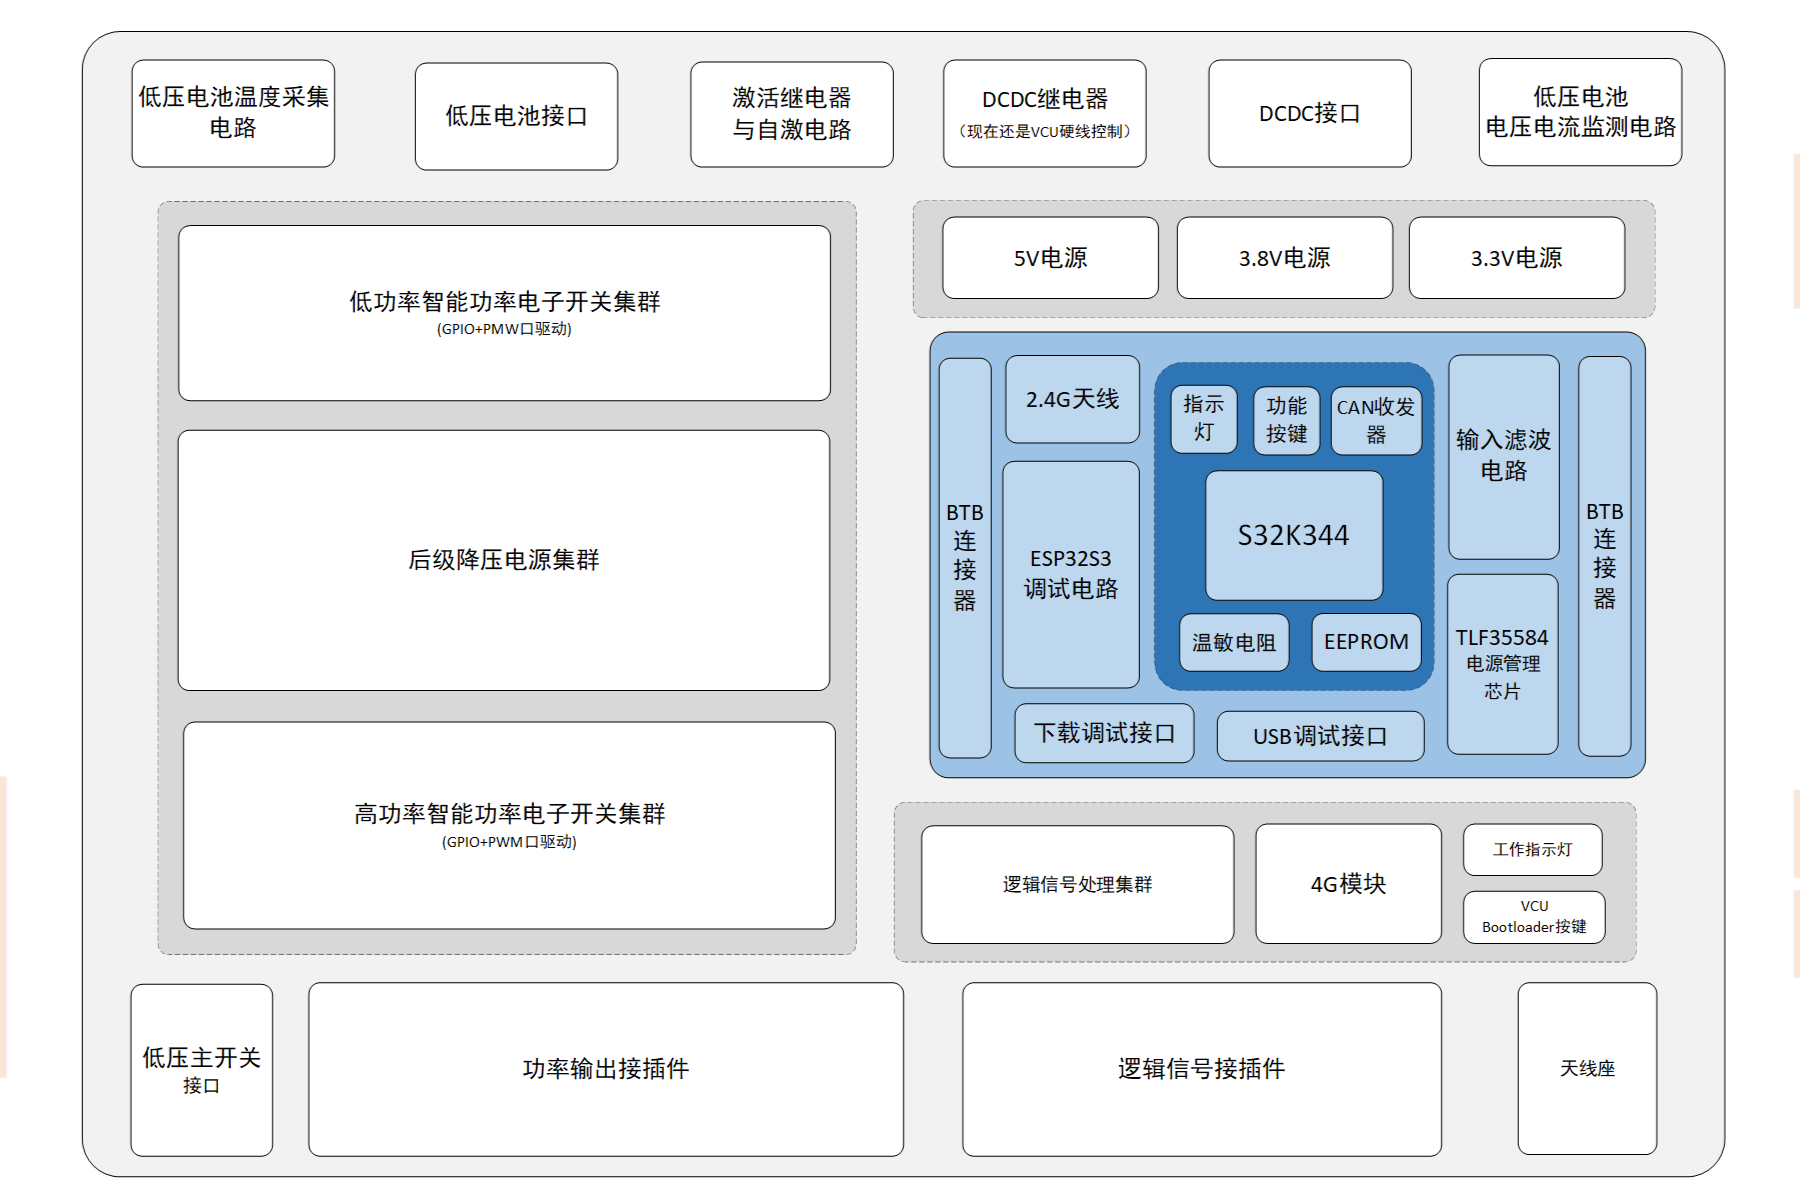
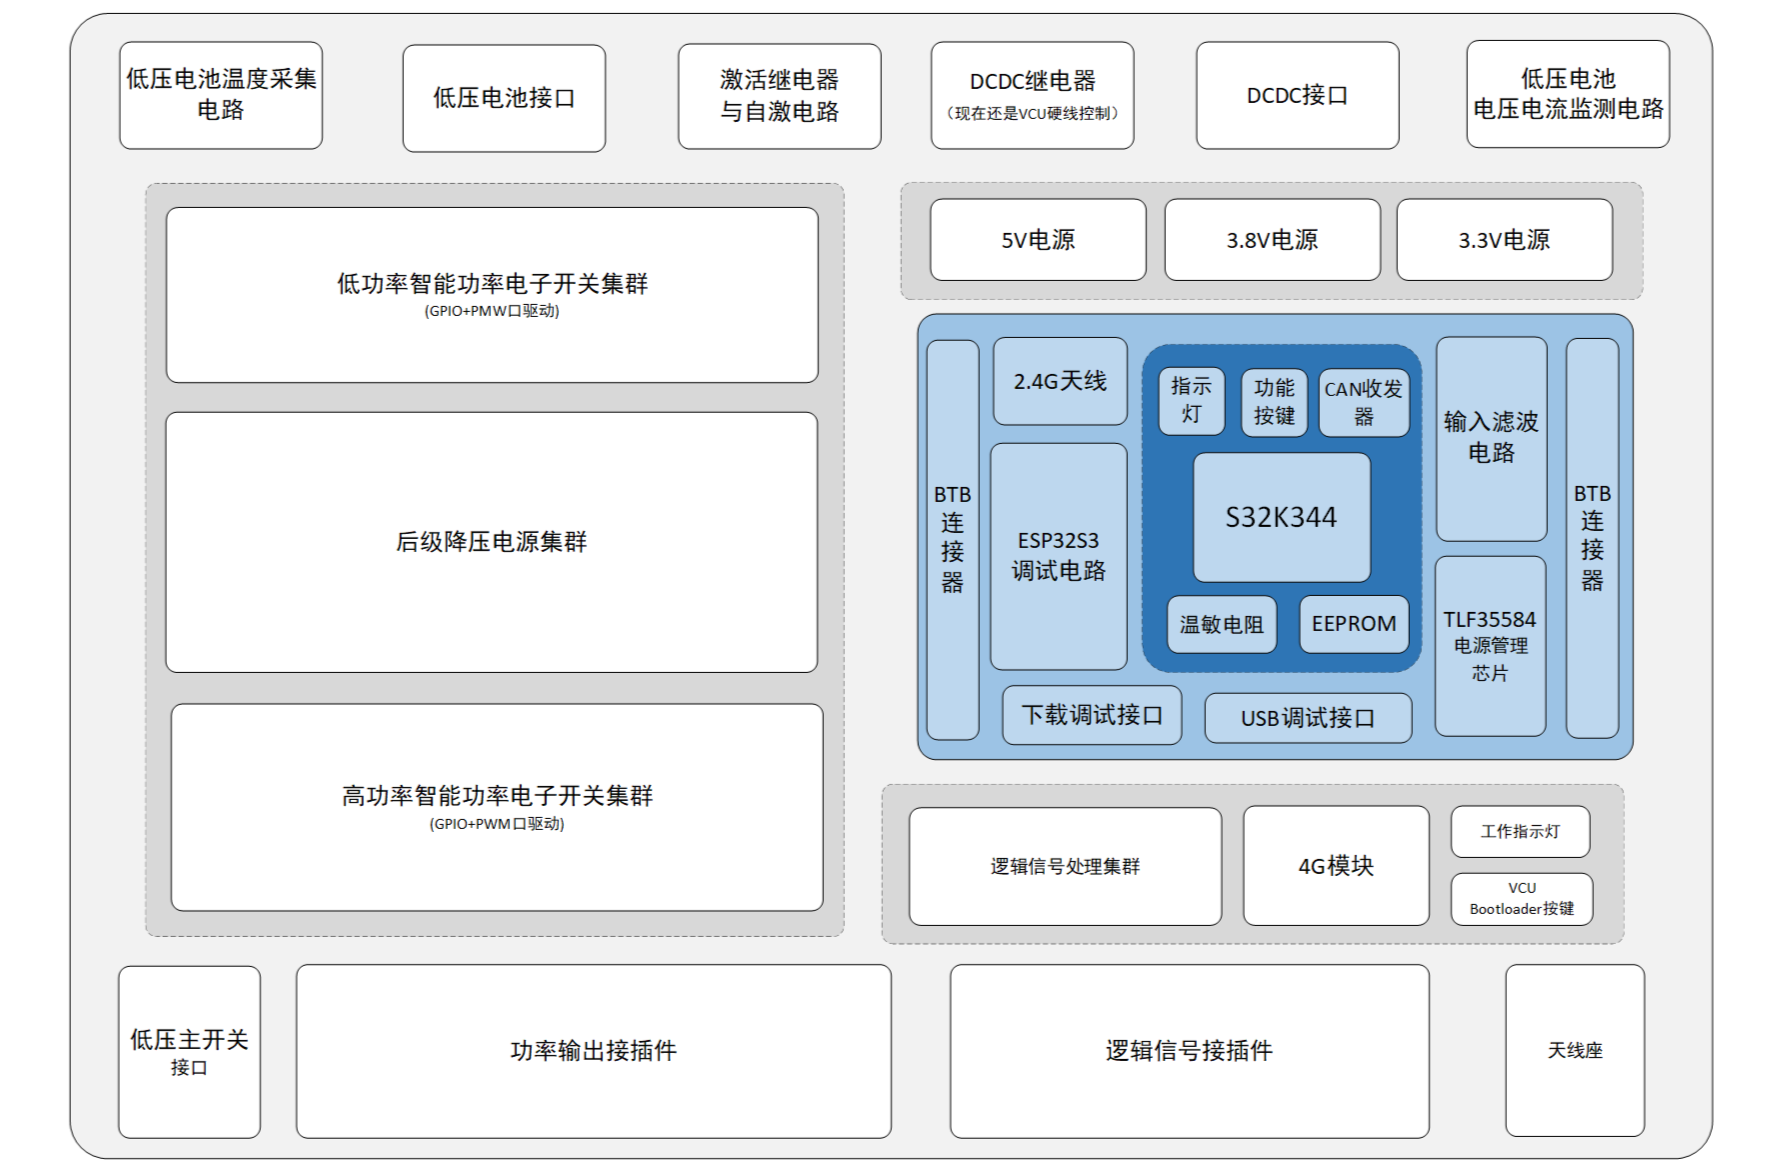
update readme

diff --git a/Firmware/AUTOSAR_MBD/RBCM_MBD/README.md b/Firmware/AUTOSAR_MBD/RBCM_MBD/README.md
@@ -27,7 +27,7 @@
 
 ## 子系统搭建
 
-1. ## MQTT通信子系统：
+### MQTT通信子系统：
 
 功能需求：
 与4G模块串口收发
@@ -62,7 +62,7 @@ AT+QMTSUB=0,1,"wute/car/test",2    //订阅topic
 另外在超时5s未收到触发信号时（串口迟迟未收到数据），从头开始发送
 
 
-2. ## HSD诊断子系统：
+### HSD诊断子系统：
 
 设计思路：既然是诊断，以原始数据为重心开展
 
@@ -73,7 +73,7 @@ AT+QMTSUB=0,1,"wute/car/test",2    //订阅topic
 片选，归属数据（各通道诊断数据存各缓存区）
 分析数据，报告错误（无输出、过流、电流不正常（超范围、不稳定）），采取保护（过流关断）
 
-3. ## 惯导解析子系统
+### 惯导解析子系统
 
 惯导数据格式：
 一帧有41个字节数据
@@ -91,3 +91,5 @@ AT+QMTSUB=0,1,"wute/car/test",2    //订阅topic
 每输入一帧41个数据，输出三个数组，每个数组分别储存各个方向（x y z）的角速度和加速度值（每个数组长度为8，数据类型uint8，前4位存储角速度值，后4位存储加速度值）
 输入格式：一个数组，数组长度为41 数组元素类型：uint8
 输出格式：三个数组，每个数组长度为8 数据元素类型：uint8
+
+开发中...

diff --git a/README.md b/README.md
@@ -34,13 +34,13 @@
 
 ### RBCM核心板：
 
-![RBCM_Core_2D.png](Hardware/RBCM_Core_2D.png)
-
-![RBCM_Core_3D.png](Hardware/RBCM_Core_3D.png)
-
 主控采用NXP的车规级微控制器S32K344，符合ASIL D的功能安全等级和ISO 26262标准
 
+![RBCM_Core_2D.png](Hardware/RBCM_Core_2D.png)
+
 核心供电采用的是infineon的车规级电源管理芯片TLF35584，满足ASIL D的功能安全等级和ISO 26262标准
+
+![RBCM_Core_3D.png](Hardware/RBCM_Core_3D.png)
 
 采用ESP32S3作为调试芯片，基于DAPlink调试方案，[DAPlink方案实现参考](https://oshwhub.com/ylj2000/dap_hs_esp_open)(👈戳我了解)，支持无线串口和2.4G无线调试与标定功能
 
@@ -94,7 +94,7 @@ MBD模型展示：
 
 需配合MQTT服务器使用，本项目MQTT服务器是基于华为云IoTDA搭建的
 
-项目前端基于<诺谦>的开源界面框架开发，[github地址]("https://github.com/nuoqian-lgtm/QianWindow")(👈戳我了解)
+项目前端基于<诺谦>的开源界面框架开发，[github地址](https://github.com/nuoqian-lgtm/QianWindow)(👈戳我了解)
 
 ---
 
